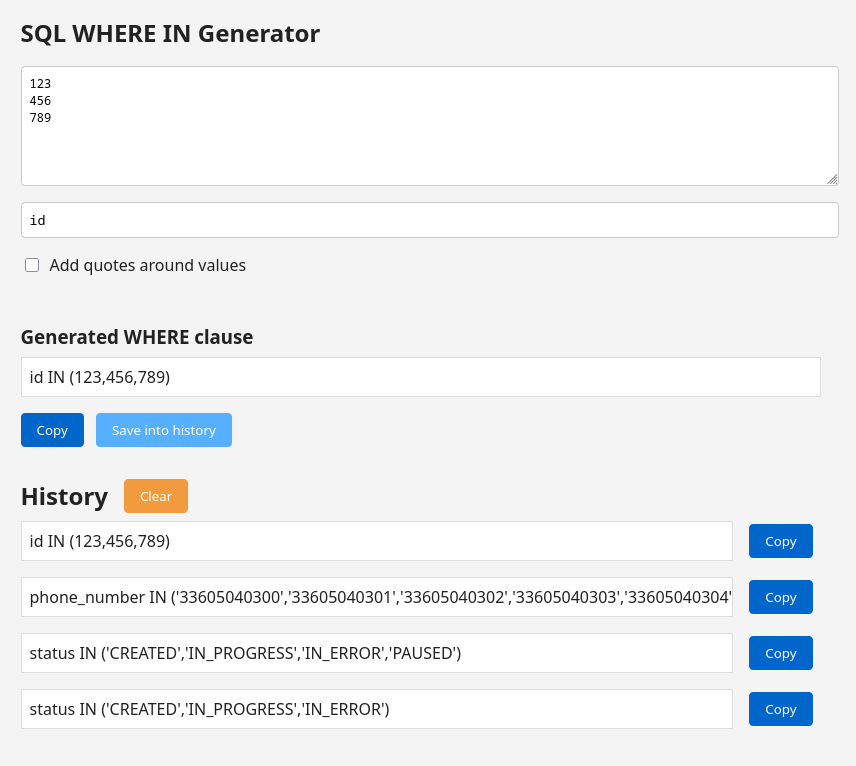
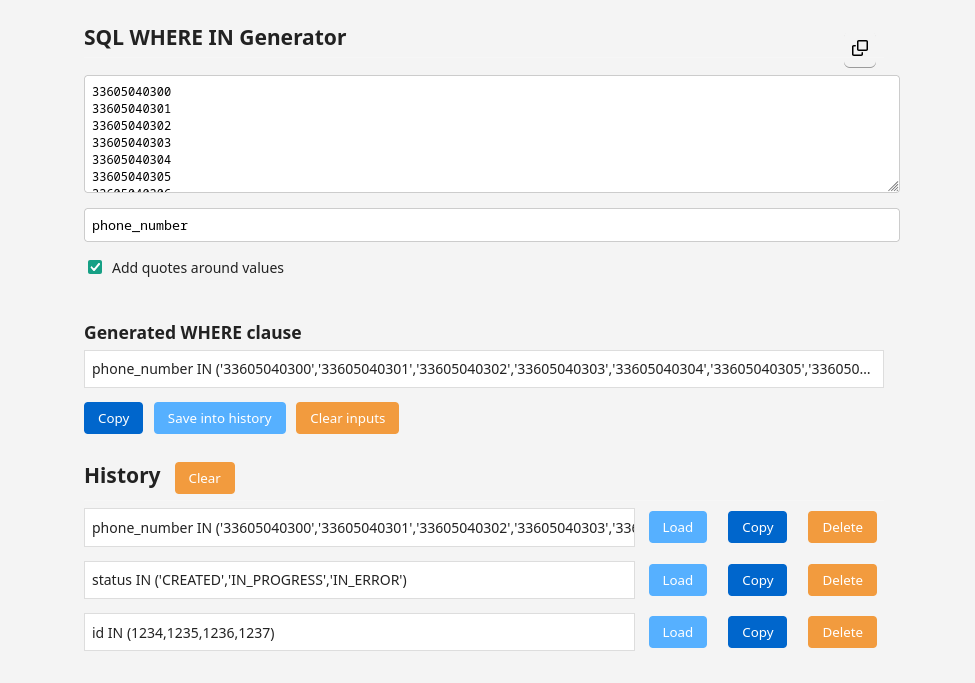
refactor: better copy action + update demo screenshot

diff --git a/index.html b/index.html
@@ -126,7 +126,7 @@
   <h3>Generated WHERE clause</h3>
   <div id="output" class="output"></div>
 
-  <button onclick="copyClause(event)" id="copyBtn" title="Copy the generated clause to your clipboard" disabled>
+  <button onclick="copyClause(this)" id="copyBtn" title="Copy the generated clause to your clipboard" disabled>
     Copy
   </button>
   <button class="info" onclick="saveIntoHistory()" id="saveIntoHistory" title="Save that clause into History section"
@@ -155,38 +155,30 @@
     const saveIntoHistoryBtn = document.getElementById('saveIntoHistory');
     const clearInputsBtn = document.getElementById('clearInputsBtn');
     const historyList = document.getElementById('historyList');
-    const maxHistory = 15;
+    const MAX_HISTORY_LENGTH = 15;
     const HISTORY_STORAGE_KEY = 'sql-where-generator-history';
 
     const history = JSON.parse(localStorage.getItem(HISTORY_STORAGE_KEY)) || [];
 
     function generateClause() {
       const lines = input.value.split('\n').map(l => l.trim().replaceAll("'", "''")).filter(Boolean);
-      
-      if (lines.length) {
-        const column = field.value.trim() || 'sql_column';
-        const clause = `${column} IN (${lines.map(v => addQuotes.checked ? `'${v}'` : v).join(',')})`;
-        output.textContent = clause;
-      }
-      
-      clearInputsBtn.disabled = lines.length === 0;
+      const column = field.value.trim() || 'sql_column';
+      const clause = `${column} IN (${lines.map(v => addQuotes.checked ? `'${v}'` : v).join(',')})`;
+      output.textContent = clause;
+
+      // Update disabled state of buttons
       copyBtn.disabled = lines.length === 0;
       saveIntoHistoryBtn.disabled = lines.length === 0;
+      clearInputsBtn.disabled = lines.length === 0;
     }
 
     generateClause()
 
-    function copyClause(e) {
-      const clause = [...e.target.parentElement.children].find((child) => child.className === 'output')?.innerText;
-      if (!clause) {
-        alert('No generated clause were found');
-        return;
-      }
-
-      navigator.clipboard.writeText(clause)
+    function copyClause(btn, clause) {
+      navigator.clipboard.writeText(clause ?? output.innerText)
         .then(() => {
-          e.target.innerText = 'Copied!';
-          setTimeout(() => e.target.innerText = 'Copy', 1500)
+          btn.innerText = 'Copied!';
+          setTimeout(() => btn.innerText = 'Copy', 1500)
         })
         .catch(err => alert('Failed to copy: ' + err));
     }
@@ -194,7 +186,7 @@
     function saveIntoHistory() {
       if (output.textContent) {
         history.unshift(output.textContent);
-        if (history.length > maxHistory) history.pop();
+        if (history.length > MAX_HISTORY_LENGTH) history.pop();
         localStorage.setItem(HISTORY_STORAGE_KEY, JSON.stringify(history));
         renderHistory();
       }
@@ -210,10 +202,7 @@
       input.value = '';
       field.value = '';
       addQuotes.checked = true;
-      output.textContent = '';
-      copyBtn.disabled = true;
-      saveIntoHistoryBtn.disabled = true;
-      clearInputsBtn.disabled = true;
+      generateClause();
     }
 
     function deleteHistoryItem(index) {
@@ -228,11 +217,11 @@
       if (match) {
         const fieldName = match[1].trim();
         const valuesStr = match[2].trim();
-        
+
         // Extract values and determine if they were quoted
         const values = [];
         let hasQuotes = false;
-        
+
         // Split by comma and clean up each value
         const rawValues = valuesStr.split(',');
         rawValues.forEach(val => {
@@ -245,12 +234,12 @@
             values.push(trimmed);
           }
         });
-        
+
         // Populate the form fields
         field.value = fieldName;
         input.value = values.join('\n');
         addQuotes.checked = hasQuotes;
-        
+
         // Trigger clause generation to update the output
         generateClause();
       }
@@ -274,7 +263,7 @@
         loadBtn.title = 'Load this clause into the input fields';
 
         const copyBtn = document.createElement('button');
-        copyBtn.onclick = copyClause;
+        copyBtn.onclick = () => copyClause(copyBtn, clause);
         copyBtn.innerText = 'Copy';
         copyBtn.title = 'Copy this saved clause to your clipboard';
 

diff --git a/README.md b/README.md
@@ -4,6 +4,6 @@
 
 You can use this web app to generates a SQL WHERE IN clause based on an input of text and copy the output to your clipboard.
 
-You can also save your generated clauses into history (not stored in localStorage).
+You can also save your generated clauses into history (saved in localStorage).
 
 ![Demo screenshot of the app](demo.png "Demo screenshot of the app")
